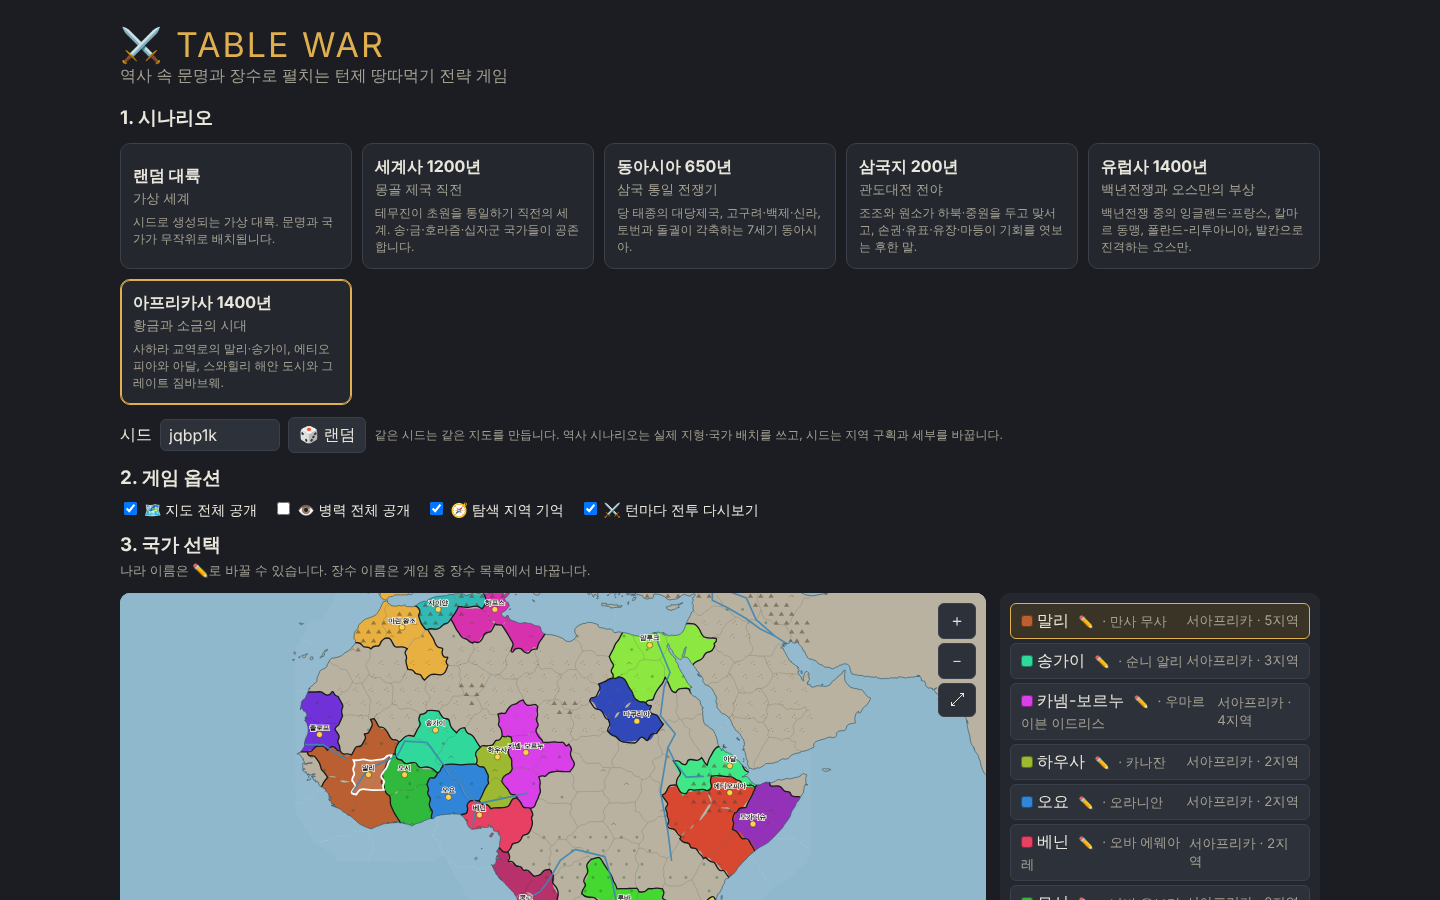
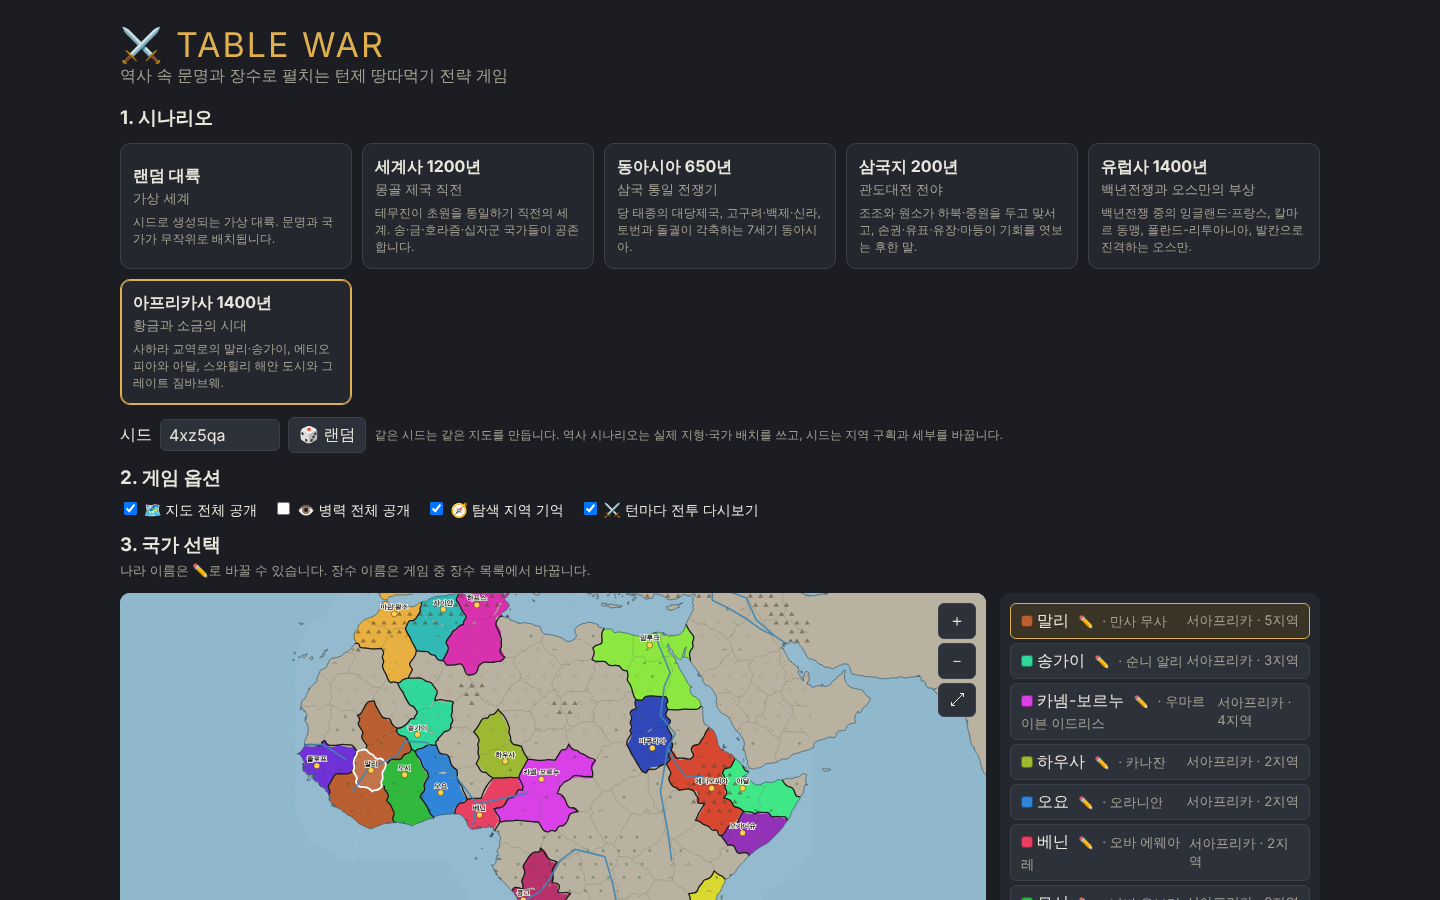
Rising nations (restorations, uprisings, secessions), conquered kings join victor, ally reinforcements; drop hegemon loyalty drain

Changed region(s): [[0.1875, 0.6533, 0.5625, 1.0], [0.125, 0.4667, 0.1562, 0.4978]]

diff --git a/src/game/rise.js b/src/game/rise.js
@@ -1,0 +1,147 @@
+import { G } from './rules.js';
+import { CIVS, makeNamer } from './civs.js';
+import { POOLS, parseGeneral } from './generals.js';
+import { addGeneral, computeMaxAp, log, nationRegions, gensIn } from './engine.js';
+import { colorFor } from './setup.js';
+
+// 신흥국 출현: 몰락한 왕의 부흥, 빈 땅의 봉기, 민심이 바닥난 지역의 독립
+const MAX_IDS = 62;
+
+function civNear(s, world, rid) {
+  const w = world.regions[rid];
+  let civ = 'china', bd = Infinity;
+  for (const n of s.nations) {
+    if (n.capital === null || n.capital === undefined) continue;
+    const c = world.regions[n.capital];
+    const d = Math.hypot(c.cx - w.cx, c.cy - w.cy);
+    if (d < bd) { bd = d; civ = n.civ; }
+  }
+  return civ;
+}
+
+function freshName(s, civ, rng) {
+  const used = new Set(s.nations.filter((n) => n.alive).map((n) => n.name));
+  const dead = new Set(s.nations.filter((n) => !n.alive).map((n) => n.name));
+  const list = rng.shuffle([...(CIVS[civ]?.nations || CIVS.china.nations)]);
+  const free = list.find((x) => !used.has(x) && !dead.has(x));
+  if (free) return free;
+  const revived = list.find((x) => !used.has('후' + x));
+  if (revived) return '후' + revived;
+  for (const p of ['북', '남', '동', '서']) for (const x of list) if (!used.has(p + x)) return p + x;
+  return `${list[0]}${s.nations.length}`;
+}
+
+// 장수 하나 고르기: 떠돌던 장수(멸망국 출신) → 역사 장수 풀 → 이름 없는 호족
+function leaderFor(s, civ, rng) {
+  const wand = Object.values(s.generals).filter((g) => g.status === 'gone' && (g.pool === civ || CIVS[g.pool]?.name === CIVS[civ]?.name));
+  if (wand.length) return { old: rng.pick(wand) };
+  const pool = (POOLS[civ] || []).filter((g) => !s.usedGen[g.id]);
+  if (pool.length) return { data: rng.pick(pool) };
+  const nm = makeNamer(rng)(civ);
+  return { data: parseGeneral(`${nm} 호족|${rng.int(55, 75)}|${rng.int(55, 75)}|${rng.int(45, 70)}|${rng.int(45, 70)}|통솔`, `rise_${s.turn}_${nm}`) };
+}
+
+function newNation(s, civ, name) {
+  const id = s.nations.length;
+  const n = {
+    id, name, color: colorFor(id), civ, pools: [civ], capital: null, gold: 60 * G, ap: 0, maxAp: 0,
+    reputation: 50, taxRate: 'normal', alive: true, isPlayer: false, aggression: 0.7, ruler: null, risen: s.turn,
+  };
+  s.nations.push(n);
+  for (const row of s.opinion) row.push(0);
+  s.opinion.push(s.nations.map(() => 0));
+  return n;
+}
+
+function seize(s, world, n, rids, troopsMult = 1) {
+  for (const rid of rids) {
+    const r = s.regions[rid];
+    const old = r.owner;
+    if (old !== null) {
+      const home = nationRegions(s, old).filter((x) => !rids.includes(x));
+      for (const g of gensIn(s, rid, old)) g.region = s.nations[old].capital !== rid && s.nations[old].capital !== null ? s.nations[old].capital : home[0];
+      if (s.nations[old].capital === rid) s.nations[old].capital = home.sort((a, b) => s.regions[b].pop - s.regions[a].pop)[0] ?? null;
+      s.opinion[old][n.id] = -50;
+      s.opinion[n.id][old] = -40;
+    }
+    r.owner = n.id;
+    r.troops = Math.max(3000, Math.round((r.troops * troopsMult) / 100) * 100);
+    r.loyalty = 70;
+  }
+  n.capital = rids[0];
+}
+
+function finish(s, n, king) {
+  king.status = 'active';
+  king.captor = null;
+  king.nation = n.id;
+  king.region = n.capital;
+  king.loyalty = 100;
+  n.ruler = king.id;
+  n.maxAp = computeMaxAp(s, n.id);
+  n.ap = 0;
+}
+
+// 1) 부흥: 망국의 왕이었던 장수가 불만을 품고 옛 땅에서 거병
+function tryRestore(s, world, rng) {
+  const cands = Object.values(s.generals).filter((g) => {
+    if (!g.exKing || g.status !== 'active' || (g.loyalty ?? 100) >= 60 || s.turn - (g.joined ?? 0) < 8) return false;
+    const host = s.nations[g.nation];
+    if (!host?.alive || host.isPlayer || host.ruler === g.id || host.capital === g.region) return false;
+    return (s.regions[g.region].loyalty ?? 100) < 70;
+  });
+  if (!cands.length) return false;
+  const king = rng.pick(cands);
+  const host = king.nation;
+  const base = king.region;
+  const rids = [base, ...world.regions[base].neighbors.map((x) => x.id).filter((x) => !s.regions[x].sea && s.regions[x].owner === host && (s.regions[x].loyalty ?? 100) < 60 && s.nations[host].capital !== x)].slice(0, 3);
+  if (nationRegions(s, host).length - rids.length < 2) return false;
+  const old = s.nations.find((n) => !n.alive && n.name === king.exKing && n.id !== s.playerId);
+  let n;
+  if (old) {
+    n = old;
+    Object.assign(n, { alive: true, gold: 60 * G, reputation: 50, goal: null, posture: null, risen: s.turn, grudge: host });
+  } else {
+    if (s.nations.length >= MAX_IDS) return false;
+    n = newNation(s, king.pool && CIVS[king.pool] ? king.pool : civNear(s, world, base), king.exKing);
+  }
+  seize(s, world, n, rids, 1);
+  finish(s, n, king);
+  log(s, `🔥 옛 ${n.name}의 군주 ${king.name}이(가) ${s.nations[host].name}에 반기를 들고 ${n.name}을(를) 부흥했습니다! (${rids.length}개 지역)`, [n.id, host], 'warn');
+  return true;
+}
+
+// 2) 신흥: 주인 없는 땅이나 민심이 무너진 변방에서 새 나라가 일어남
+function tryRise(s, world, rng) {
+  if (s.nations.length >= MAX_IDS) return false;
+  const opts = [];
+  for (let rid = 0; rid < s.regions.length; rid++) {
+    const r = s.regions[rid];
+    if (r.sea) continue;
+    if (r.owner === null) {
+      const nb = world.regions[rid].neighbors.filter((x) => !s.regions[x.id].sea && s.regions[x.id].owner === null).map((x) => x.id);
+      if (nb.length) opts.push({ rids: [rid, ...nb.slice(0, 2)], w: 1 + nb.length, mult: 1.3 });
+    } else {
+      const own = s.nations[r.owner];
+      if (own.isPlayer || own.capital === rid || (r.loyalty ?? 100) >= 30 || nationRegions(s, r.owner).length < 8) continue;
+      opts.push({ rids: [rid], w: 2, mult: 0.8, from: r.owner });
+    }
+  }
+  if (!opts.length) return false;
+  const o = rng.weighted(opts, (x) => x.w);
+  const civ = civNear(s, world, o.rids[0]);
+  const lead = leaderFor(s, civ, rng);
+  const n = newNation(s, civ, freshName(s, civ, rng));
+  seize(s, world, n, o.rids, o.mult);
+  const king = lead.old || addGeneral(s, lead.data, n.id, n.capital, rng);
+  finish(s, n, king);
+  const how = o.from !== undefined ? `${s.nations[o.from].name}의 학정에 맞서 ${s.regions[o.rids[0]].name}에서 독립` : `${s.regions[o.rids[0]].name} 일대의 빈 땅에서 거병`;
+  log(s, `🌱 ${king.name}이(가) ${how}해 신흥국 ${n.name}을(를) 세웠습니다!`, o.from !== undefined ? [n.id, o.from] : [n.id], 'warn');
+  return true;
+}
+
+export function riseNations(s, world, rng) {
+  if (s.turn < 10 || s.opts?.noRise) return;
+  if (rng() < 0.25 && tryRestore(s, world, rng)) return;
+  if (rng() < 0.04) tryRise(s, world, rng);
+}

diff --git a/src/game/engine.js b/src/game/engine.js
@@ -356,7 +356,11 @@ export function moveCheck(s, world, nid, from, to, count, genIds = []) {
   if (count < 1 || count > maxCount) return fr.sea ? '이동 병력이 올바르지 않습니다.' : '이동 병력이 올바르지 않습니다 (최소 1명은 남겨야 함).';
   if (tr.owner !== null && tr.owner !== nid) {
     const rel = getRel(s, nid, tr.owner);
-    if (rel.type === 'alliance') return '동맹국은 공격할 수 없습니다. 먼저 동맹을 파기해야 합니다.';
+    // 동맹국 땅으로는 원군(병사만)을 보낼 수 있음
+    if (rel.type === 'alliance') {
+      if (tr.sea) return '동맹 함대와는 합류할 수 없습니다.';
+      if (genIds.length) return '원군에는 장수를 보낼 수 없습니다. (장수 선택 해제)';
+    }
   }
   return canAct(s, nid, moveCost(world, from, to, s));
 }
@@ -396,16 +400,29 @@ function transferRegion(s, world, rid, newOwner) {
       const rest = nationRegions(s, old);
       n.capital = rest.length ? rest.sort((a, b) => s.regions[b].pop - s.regions[a].pop)[0] : null;
     }
-    checkElimination(s, world, old);
+    checkElimination(s, world, old, newOwner);
   }
 }
 
-export function checkElimination(s, world, nid) {
+export function checkElimination(s, world, nid, by = null) {
   const n = s.nations[nid];
   if (!n.alive) return;
   if (nationRegions(s, nid).length > 0) return;
   n.alive = false;
   n.capital = null;
+  // 정복으로 멸망: 살아 있는 군주는 정복국의 장수로 귀순
+  const king = s.generals[n.ruler];
+  const conq = by !== null ? s.nations[by] : null;
+  if (king && conq?.alive && (king.status === 'active' || king.status === 'prisoner')) {
+    king.status = 'active';
+    king.captor = null;
+    king.nation = by;
+    king.region = conq.capital ?? nationRegions(s, by)[0];
+    king.loyalty = 45;
+    king.exKing = n.name;
+    king.joined = s.turn;
+    log(s, `🙇 ${n.name}의 군주 ${king.name}이(가) ${conq.name}에 귀순해 장수가 되었습니다.`, [by, nid], 'general');
+  }
   for (const r of s.regions) {
     if (r.owner === nid && r.sea) {
       r.owner = null;
@@ -468,6 +485,15 @@ export function doMove(s, world, nid, from, to, count, genIds = [], opts = {}) {
   const cost = moveCost(world, from, to, s);
   const gens = genIds.map((id) => s.generals[id]).filter((g) => g && g.status === 'active' && g.nation === nid && g.region === from);
   const engines = Math.min(opts.engines || 0, fr.engines || 0);
+  // 원군: 병사를 동맹국에 넘겨줌
+  if (tr.owner !== null && tr.owner !== nid && getRel(s, nid, tr.owner).type === 'alliance') {
+    n.ap -= cost;
+    fr.troops -= count;
+    tr.troops += count;
+    s.opinion[tr.owner][nid] += Math.min(20, count / 2000);
+    log(s, `🤝 ${n.name}이(가) 동맹국 ${s.nations[tr.owner].name}의 ${tr.name}에 원군 ${fmtTroops(count)}을 보냈습니다.`, [nid, tr.owner], 'diplo');
+    return { ok: true, msg: `${tr.name}에 원군 ${fmtTroops(count)} 파견.` };
+  }
   const leaveSea = () => {
     if (fr.sea && fr.troops <= 0) {
       fr.troops = 0;

diff --git a/src/components/Modals.jsx b/src/components/Modals.jsx
@@ -45,11 +45,12 @@ export function MoveModal({ world, game, from, to, act, onClose, onDone, onDuel 
   const myGens = gensIn(game, from, pid);
   const maxCount = fr.sea ? fr.troops : fr.troops - 1;
   const [count, setCount] = useState(fr.sea ? fr.troops : Math.max(1, fr.troops - 1000));
-  const [sel, setSel] = useState(() => myGens.map((g) => g.id));
+  const aid = tr.owner !== null && tr.owner !== pid && getRel(game, pid, tr.owner).type === 'alliance';
+  const [sel, setSel] = useState(() => (aid ? [] : myGens.map((g) => g.id)));
   const walls = !tr.sea && (tr.buildings.walls || 0) > 0;
   const [mode, setMode] = useState('siege');
   const [engines, setEngines] = useState(Math.min(2, fr.engines || 0));
-  const isAttack = tr.owner !== pid && !(tr.sea && (tr.owner === null || tr.troops <= 0));
+  const isAttack = !aid && tr.owner !== pid && !(tr.sea && (tr.owner === null || tr.troops <= 0));
   const opts = walls ? { mode, engines } : { engines };
   const err = moveCheck(game, world, pid, from, to, count, sel);
   const est = useMemo(() => (isAttack && !err ? estimateBattle(game, world, pid, from, to, count, sel, opts) : null), [game, world, pid, from, to, count, sel, isAttack, err, mode, engines]); // eslint-disable-line react-hooks/exhaustive-deps
@@ -59,7 +60,7 @@ export function MoveModal({ world, game, from, to, act, onClose, onDone, onDuel 
   const defGens = isAttack && tr.owner !== null ? gensIn(game, to, tr.owner) : [];
   const canDuel = isAttack && sel.length > 0 && defGens.length > 0;
   const [wantDuel, setWantDuel] = useState(true);
-  const verb = edge.type === 'coast' ? '승선' : edge.type === 'landing' ? '상륙' : edge.type === 'cliff' ? '절벽 상륙' : edge.type === 'sea' ? '항해' : '이동';
+  const verb = aid ? '원군 파견' : edge.type === 'coast' ? '승선' : edge.type === 'landing' ? '상륙' : edge.type === 'cliff' ? '절벽 상륙' : edge.type === 'sea' ? '항해' : '이동';
   const title = isAttack ? (tr.sea ? `⚓ ${tr.name} 해전` : edge.type === 'landing' || edge.type === 'cliff' ? `⚔ ${tr.name} ${edge.type === 'cliff' ? '절벽 ' : ''}상륙 공격` : `⚔ ${tr.name} 공격`) : `🚩 ${tr.name} ${verb}`;
 
   return (
@@ -84,7 +85,7 @@ export function MoveModal({ world, game, from, to, act, onClose, onDone, onDuel 
           병력 {count.toLocaleString('ko-KR')} / {maxCount.toLocaleString('ko-KR')}명
           <input type="range" min={1} max={Math.max(1, maxCount)} step={maxCount > 2000 ? 100 : 1} value={count} onChange={(e) => setCount(Math.min(maxCount, +e.target.value))} style={{ width: '100%' }} />
         </label>
-        {myGens.length > 0 && (
+        {myGens.length > 0 && !aid && (
           <div>
             동행 장수
             {myGens.map((g) => (

diff --git a/src/components/Game.jsx b/src/components/Game.jsx
@@ -3,7 +3,7 @@ import MapView from './MapView.jsx';
 import SidePanel from './SidePanel.jsx';
 import { MoveModal, DiplomacyModal, GeneralsModal, HelpModal, ProposalModal, NewsModal, GameOverModal, ConfirmModal, DuelModal, BattleReplay, ChronicleModal, ConscriptModal, TakeoverModal, GodModal } from './Modals.jsx';
 import { endTurn } from '../game/turn.js';
-import { edgeBetween, income, doMove, gensIn, supplied, nationRegions, moveCheck } from '../game/engine.js';
+import { edgeBetween, income, doMove, gensIn, supplied, nationRegions, moveCheck, getRel } from '../game/engine.js';
 import { visibleSet, viewOf, troopsShown, updateExplored } from '../game/fog.js';
 import { duelist } from '../game/duel.js';
 import { SEASONS, seasonOf, yearOf, TURNS_PER_SEASON } from '../game/weather.js';
@@ -125,8 +125,9 @@ export default function Game({ world, scn, game, setGame, onExit }) {
     const probe = fr.sea ? fr.troops : fr.troops - 1;
     for (const nb of world.regions[selected].neighbors) {
       const t = game.regions[nb.id];
-      let kind = t.owner === pid || (t.sea && (t.owner === null || t.troops <= 0)) ? 'move' : 'attack';
-      const why = moveCheck(game, world, pid, selected, nb.id, Math.max(1, probe), gens);
+      const ally = t.owner !== null && t.owner !== pid && !t.sea && getRel(game, pid, t.owner).type === 'alliance';
+      let kind = ally || t.owner === pid || (t.sea && (t.owner === null || t.troops <= 0)) ? 'move' : 'attack';
+      const why = moveCheck(game, world, pid, selected, nb.id, Math.max(1, probe), ally ? [] : gens);
       if (why && !why.startsWith('행동력') && !why.startsWith('이동 병력')) kind = 'blocked';
       m.set(nb.id, kind);
     }

diff --git a/src/game/ai.js b/src/game/ai.js
@@ -359,6 +359,25 @@ export function aiActions(s, world, nid) {
       if (moveCheck(s, world, nid, r, nb.id, reg.troops - 1000, gens)) continue;
       opts.push({ score: 14 + (reg.troops / 1000) * 0.4, run: () => doMove(s, world, nid, r, nb.id, reg.troops - 1000, gens, { engines: reg.engines || 0 }) });
     }
+    // 원군: 위협받는 동맹국 땅에 여유 병력을 보냄
+    for (const r of mine) {
+      const reg = s.regions[r];
+      if (reg.troops < 15000 || threat[r] > 0 || n.capital === r) continue;
+      for (const x of world.regions[r].neighbors) {
+        const t = s.regions[x.id];
+        if (t.sea || t.owner === null || t.owner === nid || getRel(s, nid, t.owner).type !== 'alliance') continue;
+        let enemy = 0;
+        for (const y of world.regions[x.id].neighbors) {
+          const e = s.regions[y.id];
+          if (e.owner !== null && e.owner !== t.owner && e.owner !== nid && getRel(s, t.owner, e.owner).type === 'none') enemy += e.troops;
+        }
+        if (enemy < t.troops * 1.3 || enemy < 10000) continue;
+        const cnt = Math.round(reg.troops / 3 / 100) * 100;
+        if (moveCheck(s, world, nid, r, x.id, cnt, [])) continue;
+        opts.push({ score: 16 + Math.min(20, (enemy - t.troops) / 3000), run: () => doMove(s, world, nid, r, x.id, cnt, []) });
+        break;
+      }
+    }
     if (!opts.length) break;
     opts.sort((a, b) => b.score - a.score);
     const res = opts[0].run();

diff --git a/src/game/turn.js b/src/game/turn.js
@@ -6,6 +6,7 @@ import { income, computeMaxAp, spawnGeneral, log, getRel, setRel, isVassalOf, na
 import { tv } from './traits.js';
 import { rollWeather, weatherOf } from './weather.js';
 import { runEvents } from './events.js';
+import { riseNations } from './rise.js';
 import { updateExplored, encodeOwners } from './fog.js';
 import { hashString } from './rng.js';
 
@@ -72,8 +73,6 @@ function balanceOfPower(s, world) {
       const me = front.find((o) => o.isPlayer);
       if (me && share > 0) log(s, `💰 대동맹 후방국들이 ${me.name}에 군자금 ${fmtGold(share)}금을 보냈습니다.`, [me.id], 'diplo');
     }
-    // 패권국의 민심 불안: 민심 60 미만 지역은 매 턴 1씩 더 흔들림(반란 유도)
-    for (const r of nationRegions(s, top.id)) if ((s.regions[r].loyalty ?? 100) < 60) s.regions[r].loyalty = Math.max(0, s.regions[r].loyalty - 1);
   } else if (prev !== undefined && threat(prev) < 2) {
     log(s, `🕊 ${s.nations[prev].name}에 대한 대동맹이 해체되었습니다.`, s.nations.map((x) => x.id), 'diplo');
     delete s.coalition;
@@ -231,6 +230,7 @@ export function endTurn(s, world) {
     aiActions(s, world, id);
   }
   upkeep(s, world);
+  riseNations(s, world, stateRng(s));
   (s.history = s.history || []).push(encodeOwners(s));
   s.turn += 1;
   s.weather = rollWeather(world, s.turn, hashString(String(s.seed)) & 0xffff);

diff --git a/src/game/setup.js b/src/game/setup.js
@@ -6,7 +6,7 @@ import { addGeneral, computeMaxAp } from './engine.js';
 import { rollWeather } from './weather.js';
 import { updateExplored, encodeOwners } from './fog.js';
 
-const colorFor = (i) => `hsl(${Math.round((i * 137.508 + 20) % 360)}, ${58 + (i % 3) * 10}%, ${46 + ((i * 7) % 3) * 6}%)`;
+export const colorFor = (i) => `hsl(${Math.round((i * 137.508 + 20) % 360)}, ${58 + (i % 3) * 10}%, ${46 + ((i * 7) % 3) * 6}%)`;
 
 // 시나리오/시드 → 국가 목록(미리보기용)
 export function planNations(world, scn, seed, opts = {}) {

diff --git a/src/game/diplomacy.js b/src/game/diplomacy.js
@@ -229,6 +229,8 @@ export function doAnnex(s, world, lord, vassal) {
     r.owner = lord;
     r.loyalty = Math.min(r.loyalty ?? 100, 45);
   }
+  const king = s.generals[V.ruler];
+  if (king) Object.assign(king, { exKing: V.name, joined: s.turn });
   // 속국 장수는 종주국에 귀순(충성 낮음)
   for (const g of Object.values(s.generals)) {
     if (g.nation !== vassal || g.status !== 'active') continue;

diff --git a/README.md b/README.md
@@ -24,7 +24,10 @@ npm run build   # dist/ 정적 빌드
 - **장수**: 무관·문관, 특성 45종(Ⅰ~Ⅲ). 장수는 병사 수가 아닌 공격·방어 배율을 올림. 이름 변경 가능.
 - **일기토**: 반격 > 공격 > 방어 > 반격 가위바위보, 같은 수는 서로 절반 피해. 기마 돌격 애니메이션. 지력 차이만큼 상대 의도를 미리 간파(힌트 표시), 상대도 내 수를 읽고 바꿀 수 있음.
 - **장수 등급**: F·E·D·C·B·A·S·SR·SSR (잘하는 두 능력 70% + 평균 30%), 성장하면 갱신.
-- **후반 패권 경쟁**: 35턴 이후 1위(육지 22%↑)는 행동력 +1~2·적극 징병·불가침 파기까지 하며 공세. 대동맹은 30턴 이후 더 쉽게 결성되고, 연합군 공격 +10%·후방국 군자금 지원·패권국 불안 지역 민심 하락으로 역전 가능. 20턴 지나면 내분으로 와해(10턴 재결성 불가).
+- **후반 패권 경쟁**: 35턴 이후 1위(육지 22%↑)는 행동력 +1~2·적극 징병·불가침 파기까지 하며 공세. 대동맹은 30턴 이후 더 쉽게 결성되고, 연합군 공격 +10%·후방국 군자금 지원으로 역전 가능. 20턴 지나면 내분으로 와해(10턴 재결성 불가).
+- **원군**: 동맹국 땅으로 병사(장수 제외)를 보내 넘겨줄 수 있음. AI도 위협받는 동맹국에 원군 파견.
+- **망국의 왕**: 정복·병합으로 멸망한 나라의 군주는 승자의 장수로 귀순.
+- **신흥국**: 10턴 이후 가끔 새 나라가 출현 — 빈 땅의 봉기, 민심 30 미만 변방의 독립(떠돌이 장수나 역사 장수가 군주), 충성 낮은 옛 군주의 부흥(8턴 이후).
 - **속국 병합**: 10턴 이상 거느린 속국을 국력 2배 이상이면 병합(행동력 2, 평판 -5).
 - **전투 종류**: 야전·공성전·도하전·해협 도하·해전·상륙전·절벽 상륙전으로 구분해 다시보기에 표시.
 - **사건**: 역병·홍수·지진·금광·교역 호황·해적·도적·용병단·장수 출분 등 어느 나라에나.
